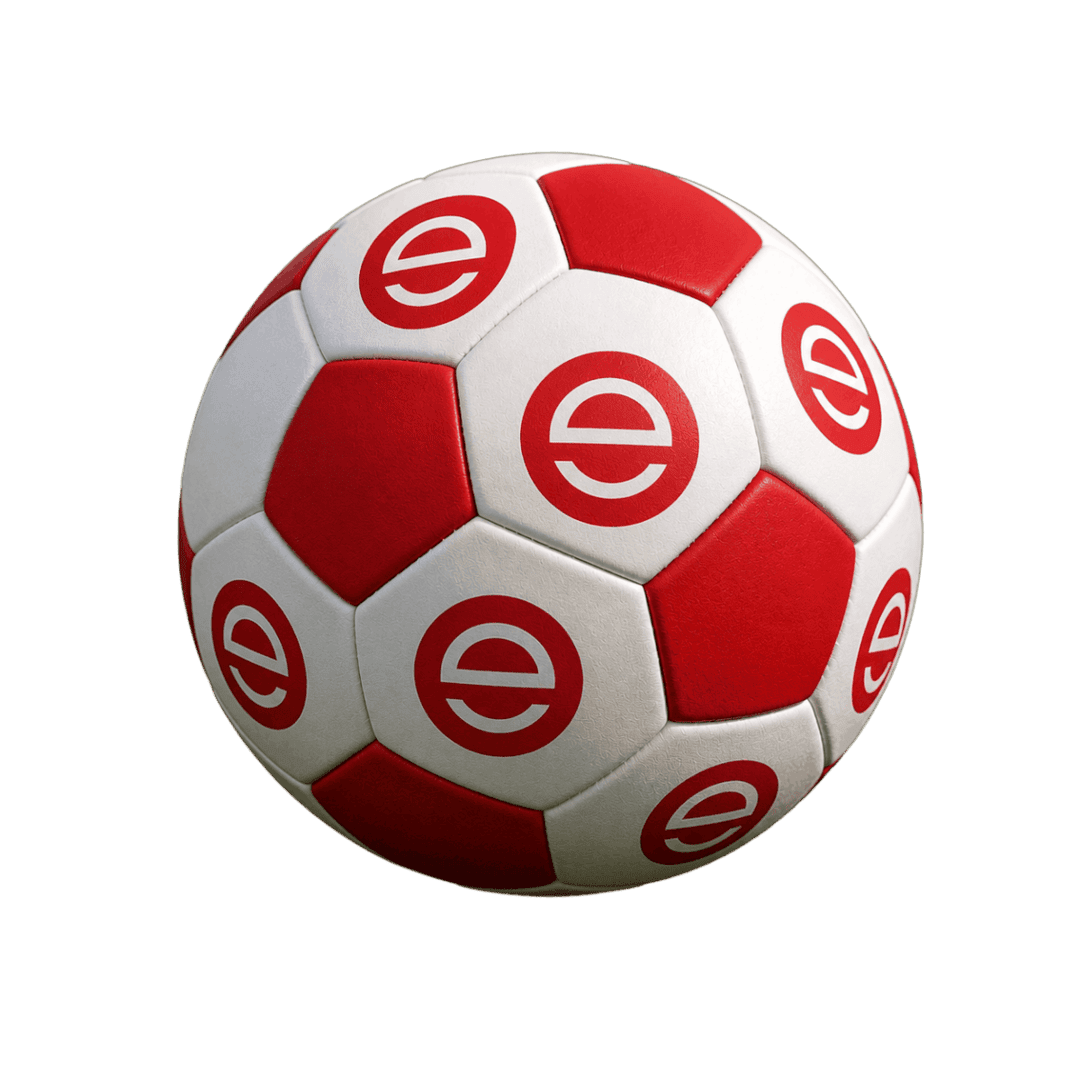
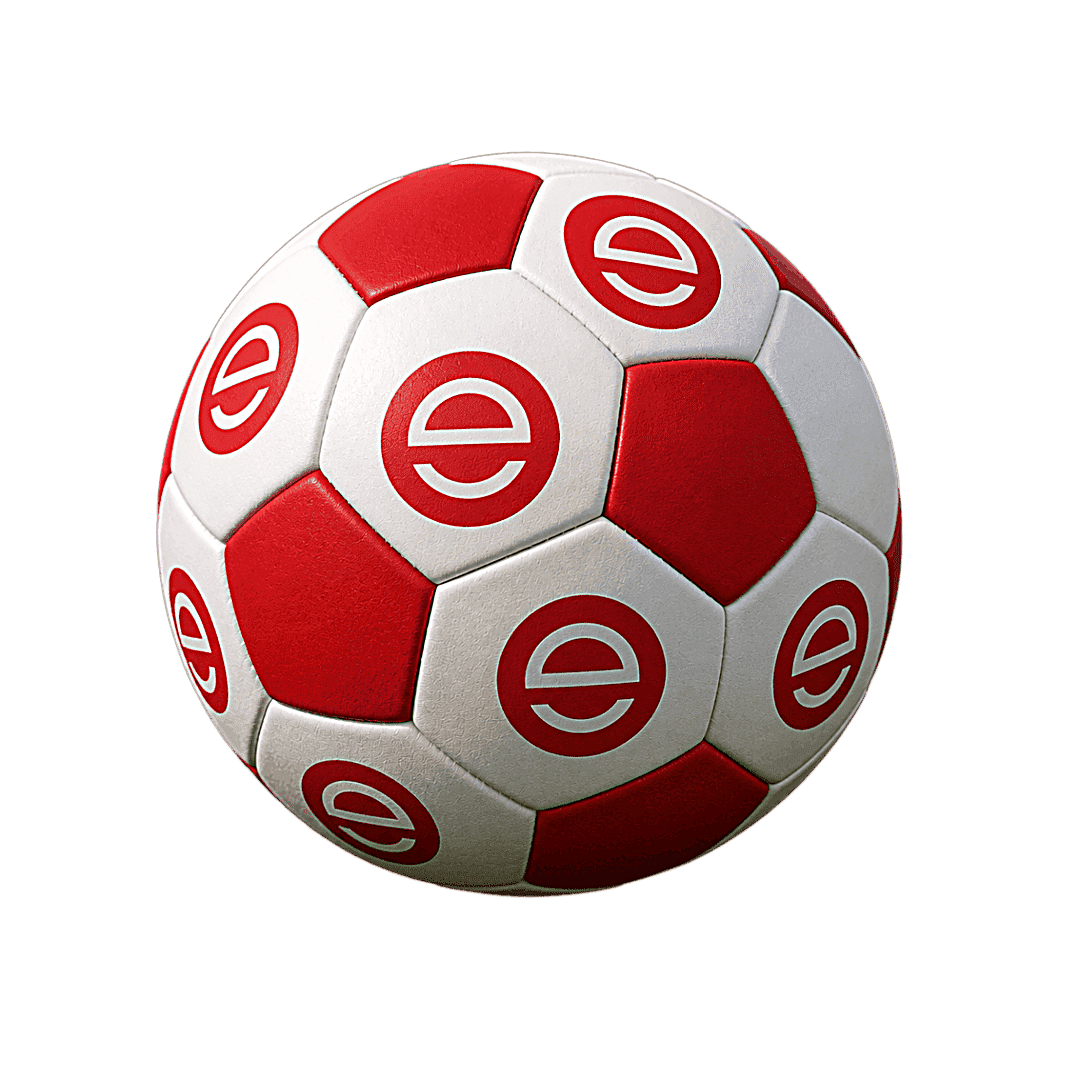
Un-mirror + sharpen Elbrit football hero; space out the two team cards
- Flip elbrit-ball.png horizontally so the Elbrit "e" logos read correctly
  (were mirrored) and apply a gentle unsharp mask for clarity
- Team grid: full width + larger gap (14px -> 22px) so the Spain and
  Argentina cards/flags are no longer crowded together

diff --git a/lib/erpnext.ts b/lib/erpnext.ts
@@ -1,18 +1,22 @@
 import { StoredEntry } from "./types";
 
 /**
- * Pushes a lucky-draw entry into ERPNext via the Forms Pro public submission
- * API — the same endpoint the published "Lucky Draw" form uses
- * (route forms_pro_B4sebvHN, Form id 7upn0fs2f5). This is a guest method, so
- * no API key/secret is required; the record shows up under the form's
- * responses just like a normal submission.
+ * Pushes a World Cup prediction entry into ERPNext via the Forms Pro public
+ * submission API. This is a GUEST method, so no API key/secret is required; the
+ * record shows up under the form's responses like a normal public submission.
  *
  *   POST {ERP_URL}/api/method/forms_pro.api.submission.submit_form_response
  *   body: { form_id, form_data: [{ fieldname, value }, ...] }
  *
- * Env (optional — sensible defaults baked in):
+ * The `fieldname`s below must EXACTLY match the field names on your Forms Pro
+ * form (see ERP_SETUP.md). ERPNext ignores any fieldname it doesn't recognise,
+ * so a mismatch fails silently — double-check them.
+ *
+ * Env:
  *   ERP_URL             base URL (default https://erp.elbrit.org)
- *   FORMS_PRO_FORM_ID   Form id to submit to (default 7upn0fs2f5)
+ *   FORMS_PRO_FORM_ID   Form id to submit to — REQUIRED. Until it is set, ERP
+ *                       submission is skipped (the entry is still saved + logged),
+ *                       so we never post to the wrong form by accident.
  */
 
 const SUBMIT_METHOD = "forms_pro.api.submission.submit_form_response";
@@ -35,7 +39,11 @@ export async function sendToErpnext(
   entry: StoredEntry
 ): Promise<{ ok: boolean; skipped?: boolean; detail?: string }> {
   const base = (process.env.ERP_URL || "https://erp.elbrit.org").replace(/\/+$/, "");
-  const formId = process.env.FORMS_PRO_FORM_ID || "7upn0fs2f5";
+  const formId = process.env.FORMS_PRO_FORM_ID;
+  if (!formId) {
+    // No form configured yet — skip ERP so we never post to the wrong form.
+    return { ok: false, skipped: true, detail: "FORMS_PRO_FORM_ID not set" };
+  }
 
   // list of { fieldname, value } — fieldnames match the Forms Pro form fields.
   const form_data: { fieldname: string; value: string | number }[] = [

diff --git a/app/globals.css b/app/globals.css
@@ -870,9 +870,8 @@ h1 span { color: var(--red); }
 .team-grid {
   display: grid;
   grid-template-columns: 1fr 1fr;
-  gap: 14px;
+  gap: 22px;
   width: 100%;
-  max-width: 360px;
   margin-bottom: 6px;
 }
 .team-card {

diff --git a/ERP_SETUP.md b/ERP_SETUP.md
@@ -1,0 +1,130 @@
+# ERP (Forms Pro) Setup — World Cup Prediction
+
+This app already contains all the code needed to store entries in ERPNext.
+**You do not need to write any code** — you only need to (1) create a Forms Pro
+form in ERPNext and (2) put its Form id in an env var.
+
+---
+
+## 1. How the connection works (already built)
+
+```
+Browser (PredictionPicker + WizardForm)
+      │  POST /api/entry   { name, email, phone, specialisation, city, clinic,
+      │                      team, teamCode, goldenBoot, goldenBall, goldenGlove }
+      ▼
+Next.js route  app/api/entry/route.ts
+      │  1. validates the payload (all 4 predictions must be valid options)
+      │  2. saves a copy locally + logs it (LUCKY_DRAW_ENTRY in server logs)
+      │  3. calls sendToErpnext()   ← lib/erpnext.ts
+      │  4. calls sendRavenNotification() (optional) ← lib/raven.ts
+      ▼
+ERPNext Forms Pro — PUBLIC guest endpoint (no API key needed):
+      POST {ERP_URL}/api/method/forms_pro.api.submission.submit_form_response
+      body: { form_id, form_data: [ { fieldname, value }, ... ] }
+      → the entry appears under the form's Responses.
+```
+
+Key point: the `fieldname`s the code sends must **exactly** match the field names
+on your Forms Pro form. ERPNext silently ignores unknown fieldnames, so a typo
+just means that column comes through blank — no error.
+
+---
+
+## 2. Fields to create on the Forms Pro form
+
+Create the form with these **exact** field names (the `fieldname`, not just the label):
+
+| Field label (yours)        | fieldname (must match)   | Type   | Required |
+|----------------------------|--------------------------|--------|----------|
+| Full name                  | `full_name`              | Data   | Yes      |
+| Specialisation             | `specialisation`         | Data / Select | Yes |
+| Mobile number              | `mobile_number`          | Phone  | Yes      |
+| Email address              | `email_address`          | Data   | No       |
+| City                       | `city`                   | Data   | Yes      |
+| Clinic / hospital name     | `clinic_hospital_name`   | Data   | Yes      |
+| Predicted champion         | `predicted_champion`     | Data   | Yes      |
+| Team code                  | `team_code`              | Data   | No       |
+| Golden Boot                | `golden_boot`            | Data   | Yes      |
+| Golden Ball                | `golden_ball`            | Data   | Yes      |
+| Golden Glove               | `golden_glove`           | Data   | Yes      |
+
+Notes:
+- `mobile_number` is a **Phone** field in Forms Pro and expects a country code —
+  the app already formats it as `+91 …`, so leave it as Phone.
+- If you name a field differently, either rename it to match the table above **or**
+  change the matching `fieldname` in `lib/erpnext.ts` (lines ~42–56).
+
+---
+
+## 3. Create the form in ERPNext (step by step)
+
+1. Log in to ERPNext (`https://erp.elbrit.org`).
+2. Go to **Forms Pro** → **Form** → **New** (or open Forms Pro from the app list).
+3. Give it a title, e.g. **"World Cup Prediction 2026"**.
+4. Add each field from the table above. For every field, set the **Name /
+   fieldname** to the exact value in the middle column.
+5. Make sure the form is **published / public** (allow guest submissions) — the app
+   submits as a guest, with no login.
+6. **Save**, then open the form's page. Copy its **Form id** — it's the short code
+   in the form's URL / route (the old lucky-draw form's id was `7upn0fs2f5`; yours
+   will be different).
+
+---
+
+## 4. Wire the form id into the app
+
+Create a file `.env.local` in this folder (copy from `.env.example`) and set:
+
+```
+ERP_URL=https://erp.elbrit.org
+FORMS_PRO_FORM_ID=<your-new-form-id>
+```
+
+Then restart `npm run dev`. For production, set the same two vars in
+**Netlify → Site settings → Environment variables**.
+
+> Until `FORMS_PRO_FORM_ID` is set, the app **skips** the ERP push on purpose
+> (the entry is still saved locally and logged), so you never post to the wrong
+> form by accident.
+
+---
+
+## 5. (Optional) Raven channel notification
+
+To ping a Raven channel on every entry, set in `.env.local` / Netlify:
+
+```
+RAVEN_API_KEY=<key of a user/bot that is a MEMBER of the channel>
+RAVEN_API_SECRET=<secret>
+RAVEN_CHANNEL_ID=Elbrit Life Sciences-pmt
+```
+
+Leave them blank to disable. Raven's send API needs auth (unlike Forms Pro).
+
+---
+
+## 6. Test it
+
+1. Set `FORMS_PRO_FORM_ID`, restart the dev server.
+2. Complete an entry in the app (pick 4 + fill the form + submit).
+3. In ERPNext, open your form → **Responses** — the entry should be there with all
+   4 predictions.
+4. If it's missing: check the dev server console for `ERP_SUBMIT_FAILED …`, and
+   confirm the fieldnames match exactly.
+
+---
+
+## Prompt for VS Code Claude (only if you want to change field mappings)
+
+You don't need this to store entries — the code is done. Use it only if your ERP
+admin named the form fields differently and you want Claude to re-map them:
+
+> In this Next.js project, entries are pushed to an ERPNext Forms Pro form in
+> `lib/erpnext.ts` via `POST {ERP_URL}/api/method/forms_pro.api.submission.submit_form_response`
+> with `{ form_id, form_data: [{ fieldname, value }] }`. My Forms Pro form uses
+> these field names: <paste your actual fieldnames>. Update the `form_data` array
+> in `lib/erpnext.ts` so each `fieldname` matches my form exactly, keeping the
+> same values from the `entry` object (name, specialisation, phone, city, clinic,
+> email, team, teamCode, goldenBoot, goldenBall, goldenGlove). Don't change
+> anything else.